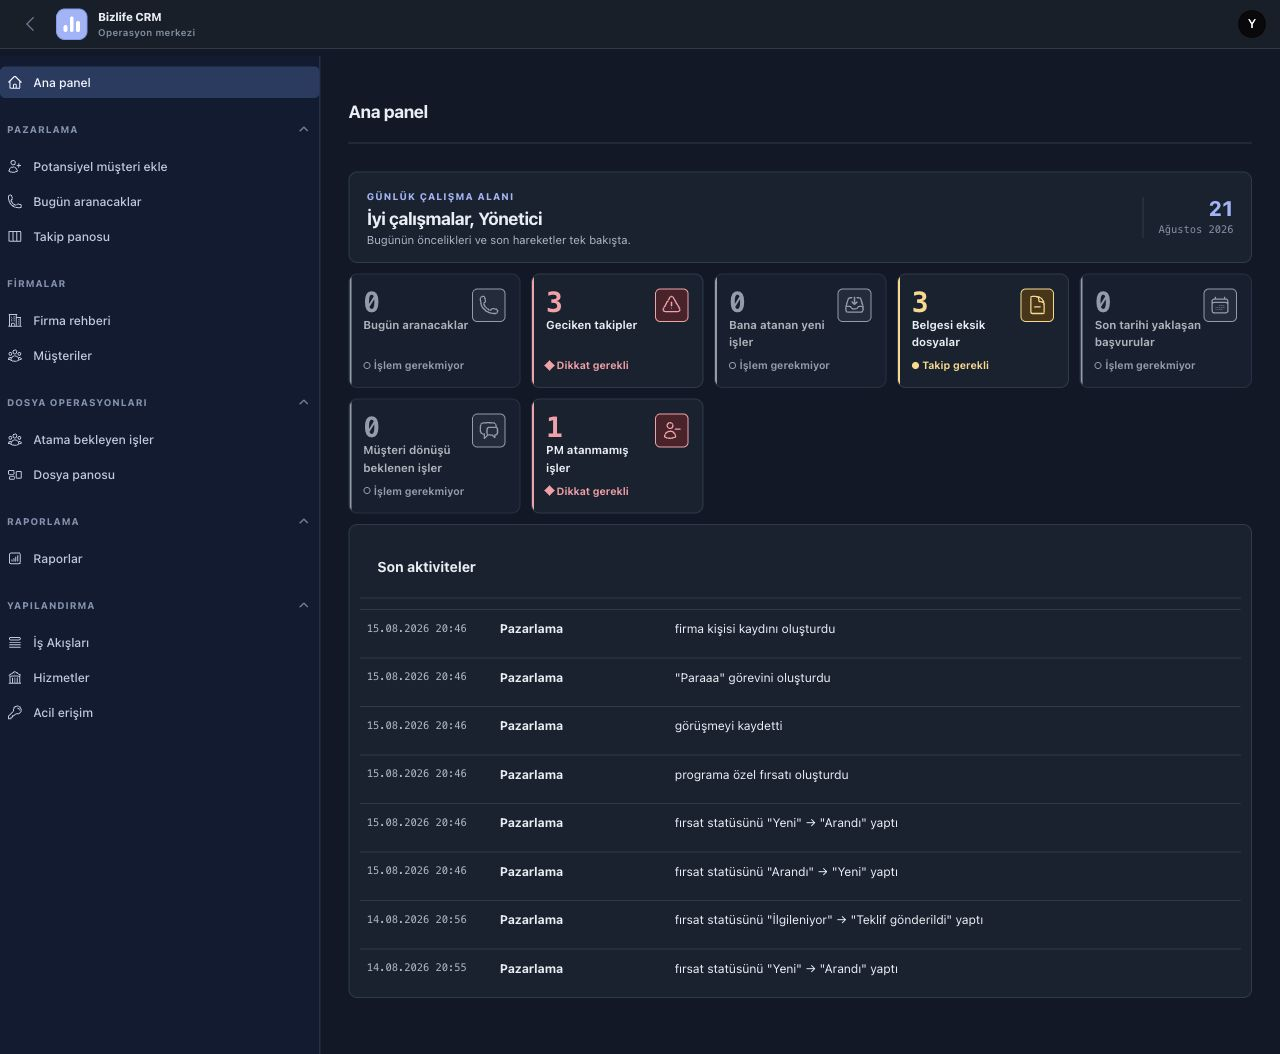
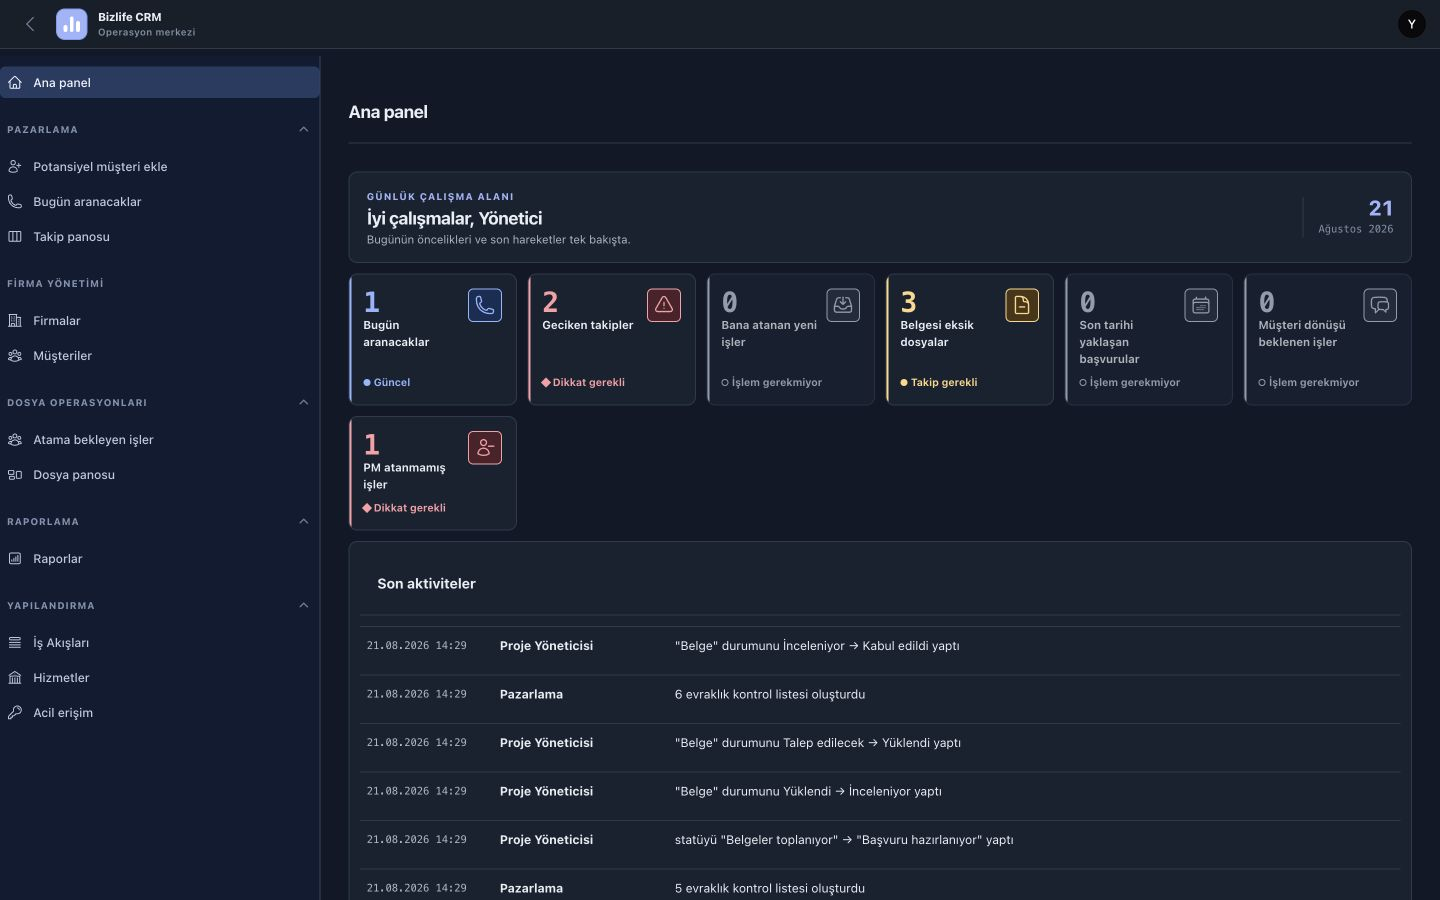
docs(ui): zoho kanıtlarını yenile

diff --git a/docs/screenshots/zoho-redesign/README.md b/docs/screenshots/zoho-redesign/README.md
@@ -2,6 +2,9 @@
 
 Görüntüler aynı kurgusal demo verisi ve masaüstü tarayıcı oturumuyla alınmıştır.
 Her satırda solda önceki tema, sağda Zoho yönü yer alır.
+Kanıt seti 1440 × 900 piksel ölçüsündedir. Güncel ekranlar 1x cihaz piksel
+oranında alınmıştır; firma listesinde açık filtre paneli, sıralama aracı, sektör
+sütunu, toplu e-posta eylemi, toplam kayıt ve sayfalama birlikte görünür.
 
 ## Açık tema
 
